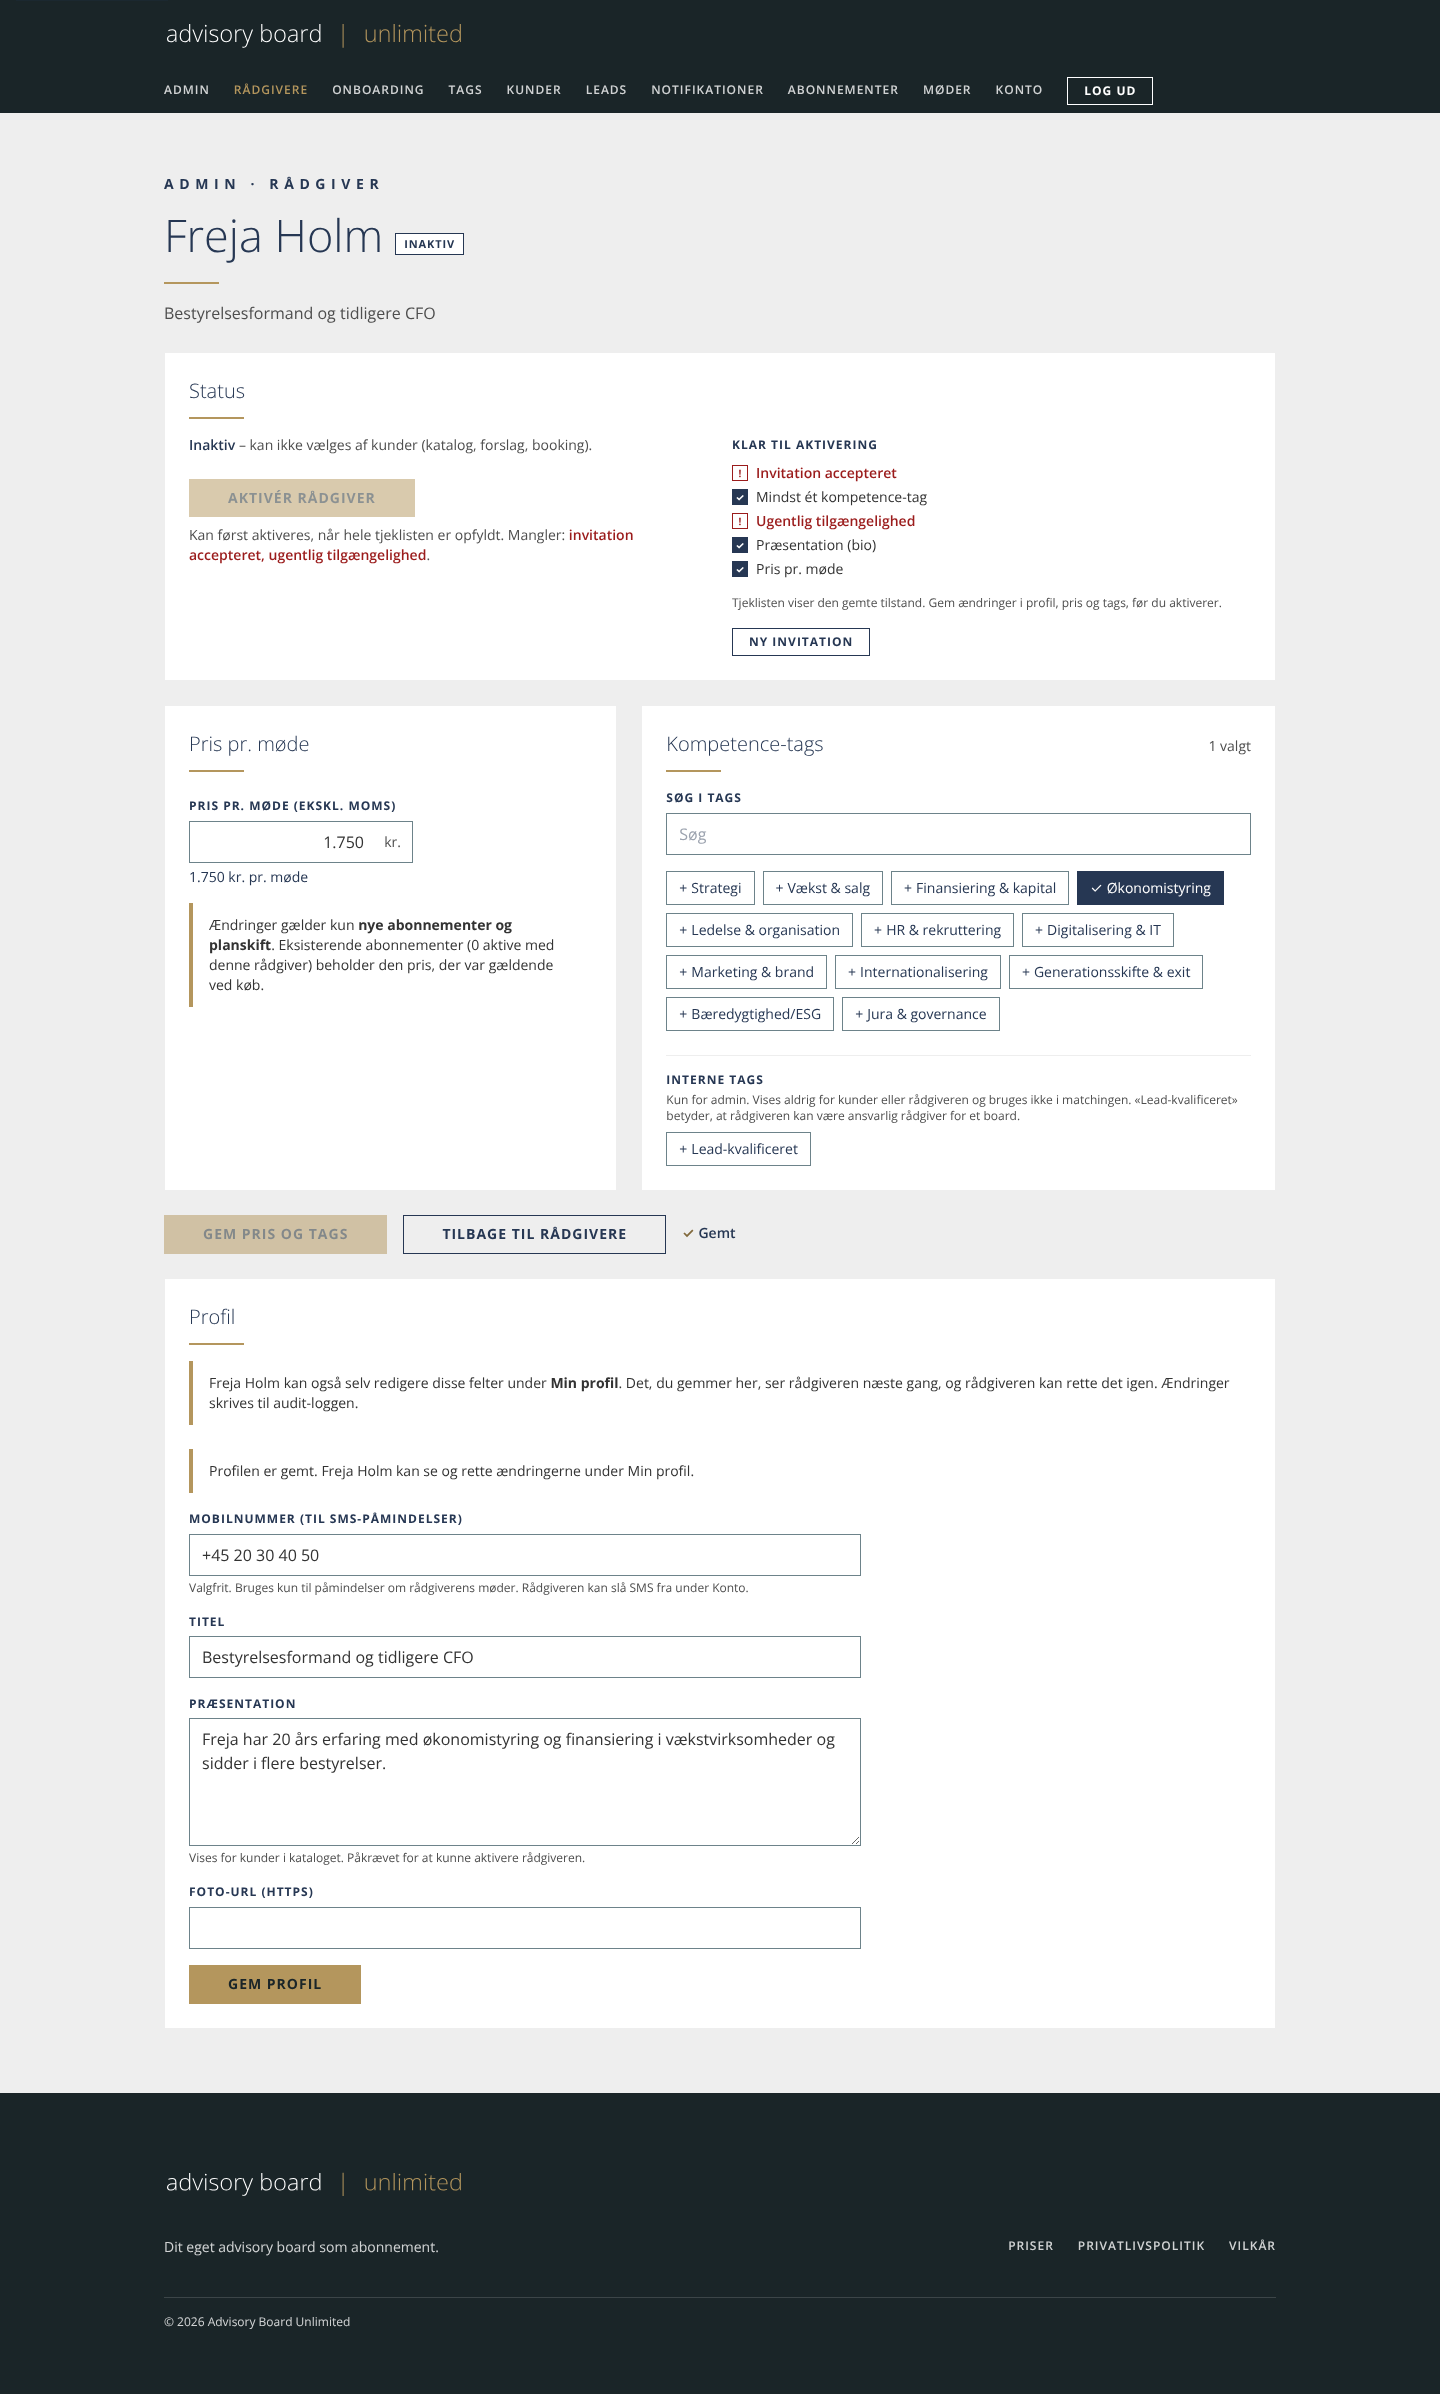
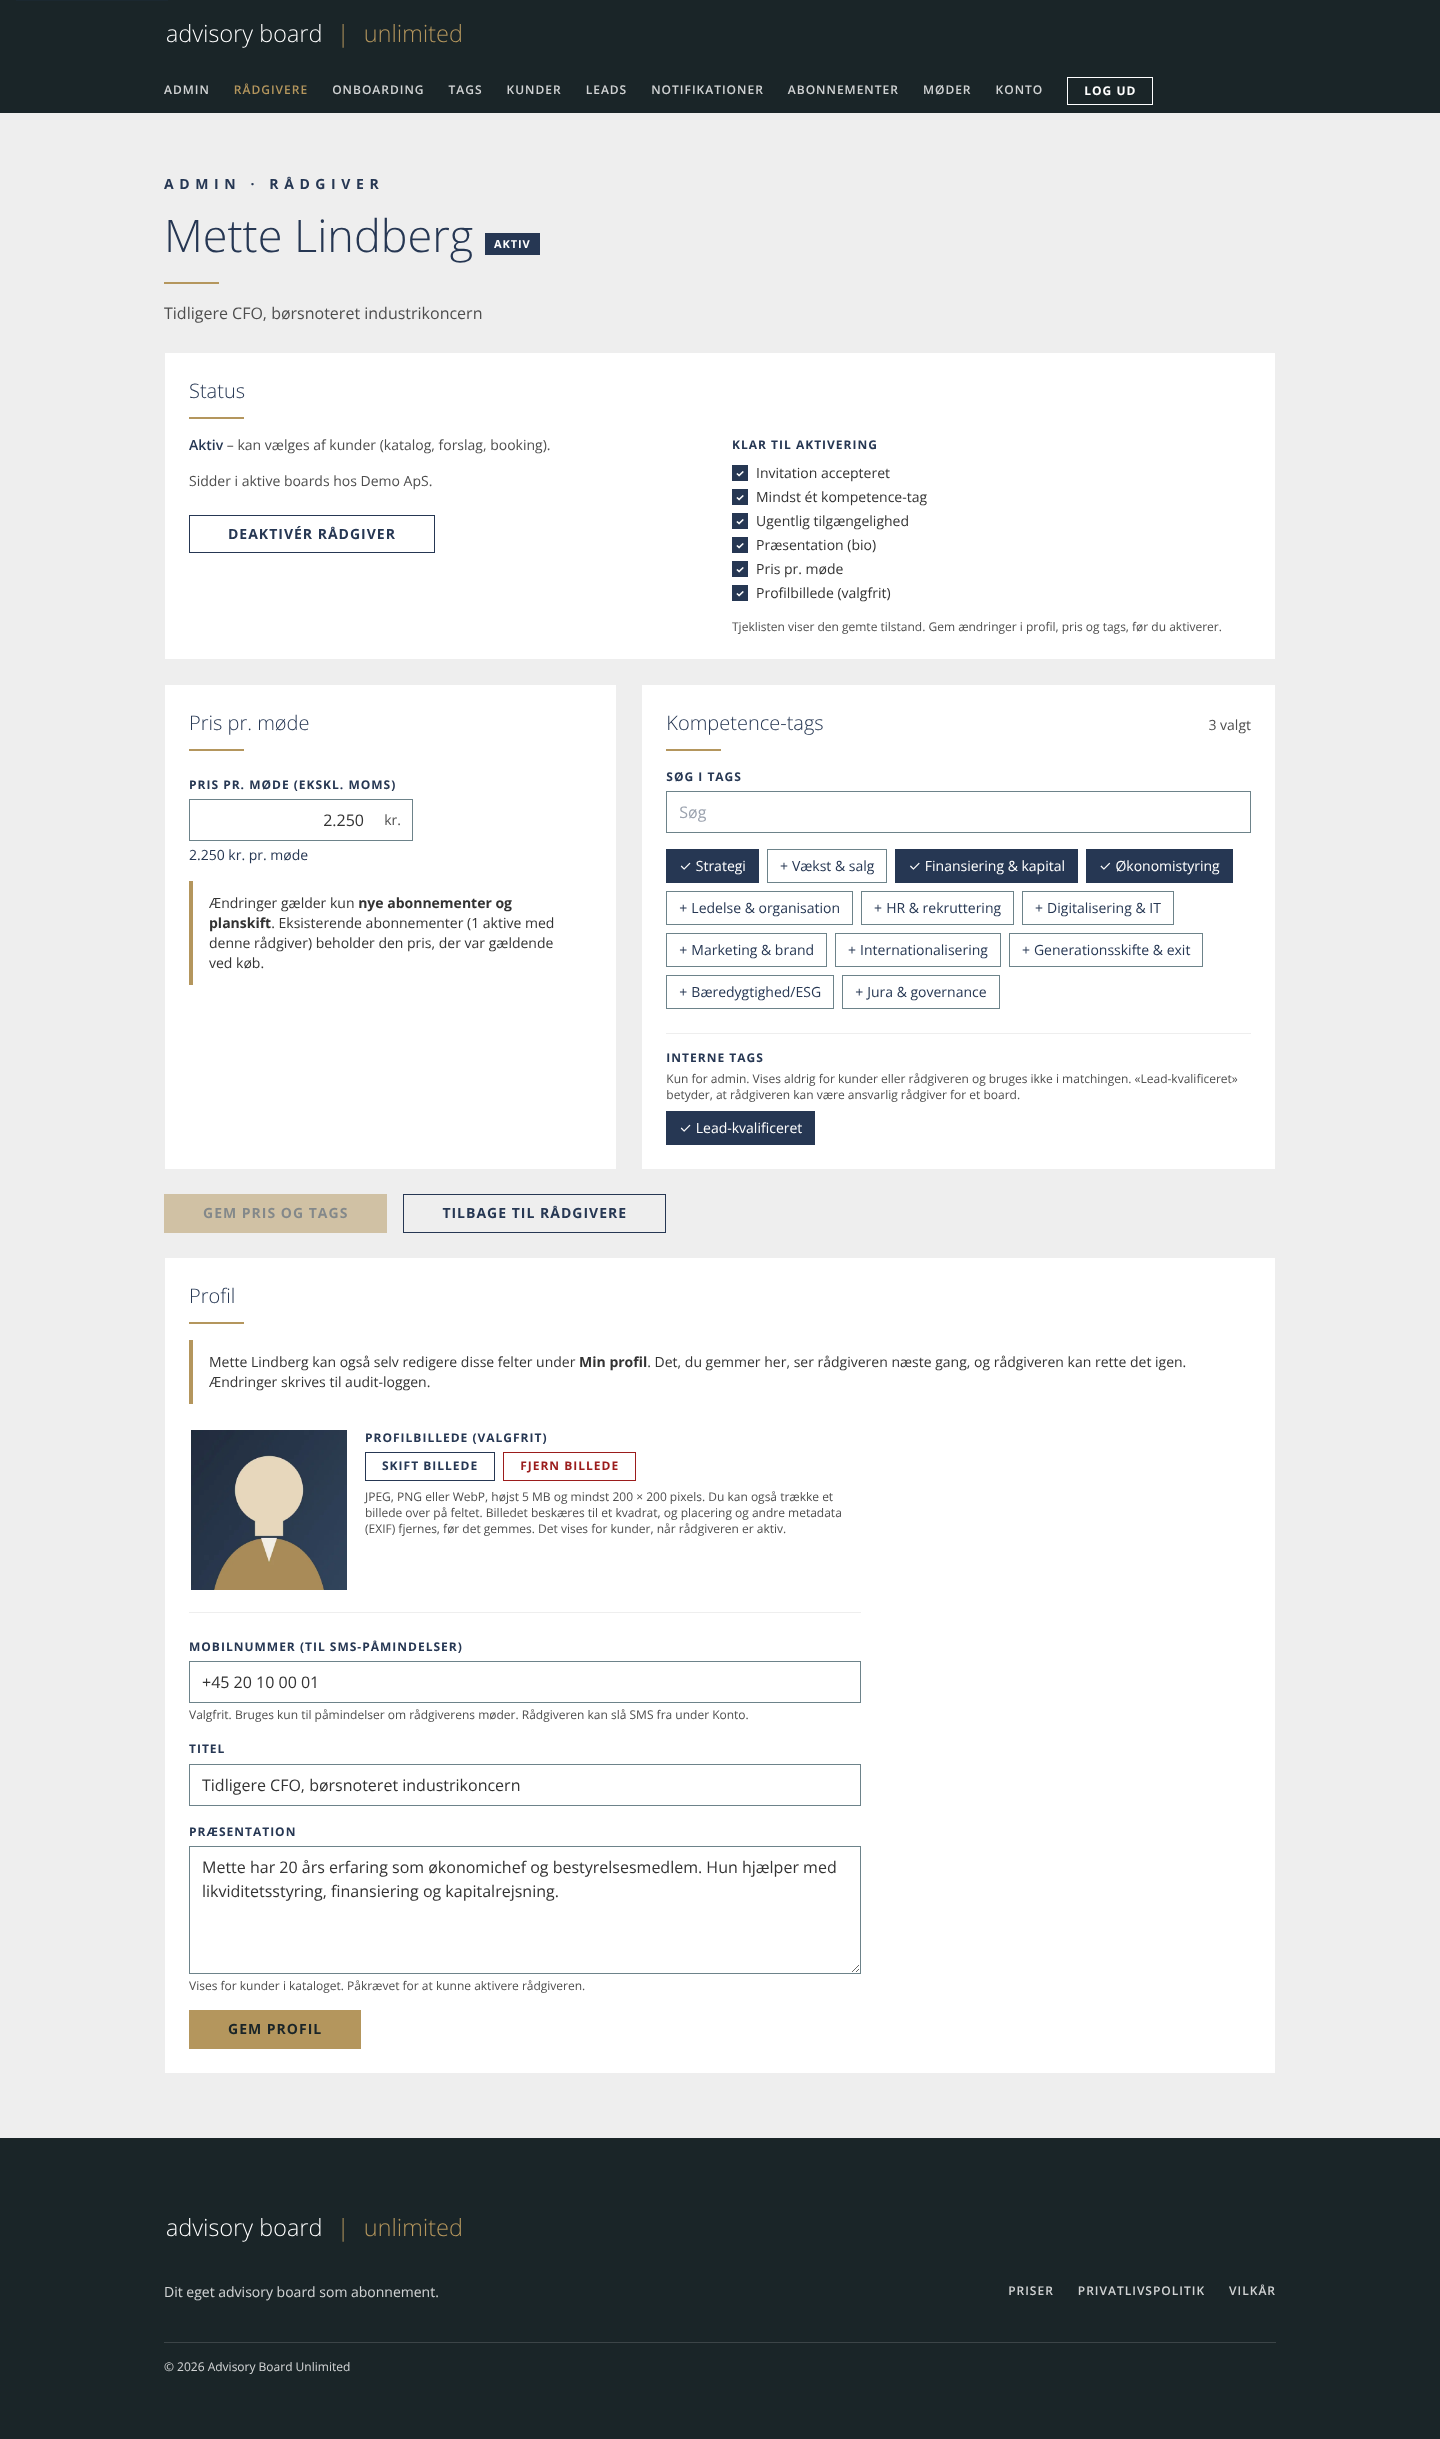
Docs: skærmbilleder af upload af rådgiverfoto
- raadgiver/03: Min profil med uploadet foto (EXIF-roteret, metadata fjernet), «Skift billede»/«Fjern billede».
- admin/04c: admin har skiftet profilbilledet; tjeklisten viser «Profilbillede (valgfrit)».
- onboarding/13 (ny): trin 5 før login med rådgiverfotos og initialer som reserve.

Claude-Session: https://claude.ai/code/session_01HH7tf5bArUfTj3WiRNdY2x

diff --git a/docs/screens/README.md b/docs/screens/README.md
@@ -9,7 +9,8 @@ danske helligdage og sikkerhedshærdning.
 
 Opdateret 18.10.2026 (ejerens beslutninger): aktivering er blokeret, indtil tjeklisten er opfyldt, og status ændres med en
 dedikeret knap (`admin/03`–`05`, `04b`, `04c`); møder holdes altid med hele boardet (`admin/16`, `17`); hvert board har en
-ansvarlig rådgiver (`admin/24`, `25`, `onboarding/11`, `12`, `kunde/09`). Øvrige billeder er fra før disse ændringer og viser
+ansvarlig rådgiver (`admin/24`, `25`, `onboarding/11`, `12`, `kunde/09`). Rådgiverfotos uploades nu i stedet for en
+foto-URL (`raadgiver/03`, `admin/04c`, `onboarding/13`); testbillederne er genererede portrætter (ingen rigtige personer). Øvrige billeder er fra før disse ændringer og viser
 fx board-builderen uden markøren «Kan være ansvarlig».
 
 ## Offentlig (`offentlig/`)
@@ -39,6 +40,7 @@ fx board-builderen uden markøren «Kan være ansvarlig».
 | `10-mock-betaling.png` | Testbetalingen (mock-udbyder), som aktiverer abonnementet. |
 | `11-trin5-kan-vaere-ansvarlig.png` | Trin 5: rådgivere med lead-tagget er markeret «Kan være ansvarlig», og sidepanelet viser «Ansvarlig rådgiver: Tildeles automatisk». |
 | `12-trin5-ingen-ansvarlig-blokeret.png` | Trin 5: ingen i boardet kan være ansvarlig – Fortsæt er spærret med en forklaring. |
+| `13-trin5-raadgiverfotos.png` | Trin 5 før login: rådgiverkortene viser de uploadede fotos (96 px-miniaturer fra `/api/avatar`); rådgivere uden foto vises med initialer. |
 
 ## Kunde (`kunde/`)
 
@@ -61,7 +63,7 @@ fx board-builderen uden markøren «Kan være ansvarlig».
 |---|---|
 | `01-dashboard.png` | Rådgiverens dashboard med kommende møder. |
 | `02-tilgaengelighed.png` | Faste ugentlige tidsrum og fravær. |
-| `03-profil-telefon-og-tags.png` | Profil med mobilnummer til SMS og tildelte kompetence-tags. |
+| `03-profil-telefon-og-tags.png` | Min profil: rådgiveren har uploadet et mobilfoto (med EXIF-GPS og orientering i originalen – billedet er roteret opret, beskåret til kvadrat, og metadata er fjernet) med «Skift billede»/«Fjern billede», mobilnummer til SMS og tildelte kompetence-tags. |
 | `04-moeder.png` | Rådgiverens mødeoversigt. |
 
 ## Admin (`admin/`)
@@ -73,7 +75,7 @@ fx board-builderen uden markøren «Kan være ansvarlig».
 | `03-raadgivere-med-inaktiv.png` | Rådgiverlisten med gemt status (AKTIV/INAKTIV), kompakt tjekliste-indikator og interne tags; den nyoprettede rådgiver er INAKTIV, og «Aktivér» er spærret, til tjeklisten er opfyldt. |
 | `04-raadgiver-klar-til-aktivering.png` | Tjeklisten er opfyldt: «Aktivér rådgiver» gemmer straks efter bekræftelse. |
 | `04b-raadgiver-ikke-klar-blokeret.png` | Nyinviteret rådgiver: «Aktivér rådgiver» er spærret med listen over det, der mangler (serveren afviser det også). |
-| `04c-raadgiver-profil-redigeret-af-admin.png` | Admin har udfyldt titel, bio og mobilnummer i «Profil» og tilføjet et tag; tjeklisten er opdateret. Rådgiveren kan selv rette felterne. |
+| `04c-raadgiver-profil-redigeret-af-admin.png` | Admin har skiftet rådgiverens profilbillede under «Profil» (titel, bio og mobilnummer rettes samme sted); tjeklisten viser «Profilbillede (valgfrit)» ✓, som ikke er et krav for aktivering. Rådgiveren kan selv rette det hele. |
 | `05-deaktivering-advarsel.png` | Bekræftelse ved «Deaktivér», der lister kunder med aktive boards, som rådgiveren sidder i. |
 | `06-onboarding-cms.png` | Onboarding-CMS: spørgsmål, svar og tag-vægte. |
 | `07-onboarding-cms-traek-og-slip.png` | Træk og slip af et spørgsmål med den gyldne indsættelseslinje. |
